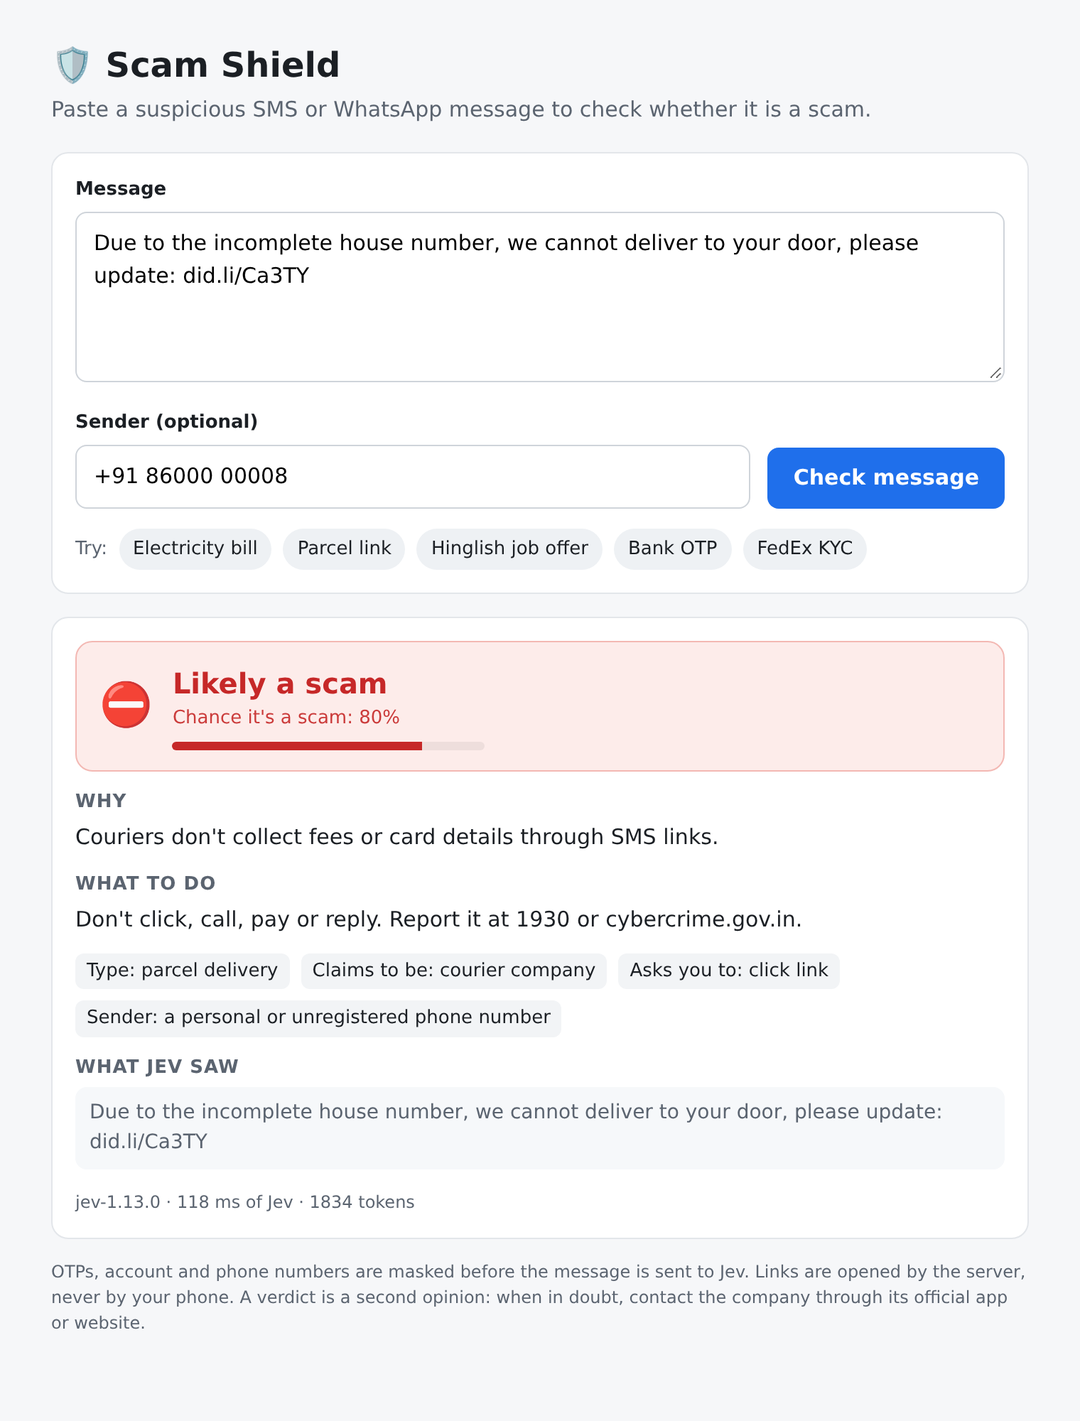
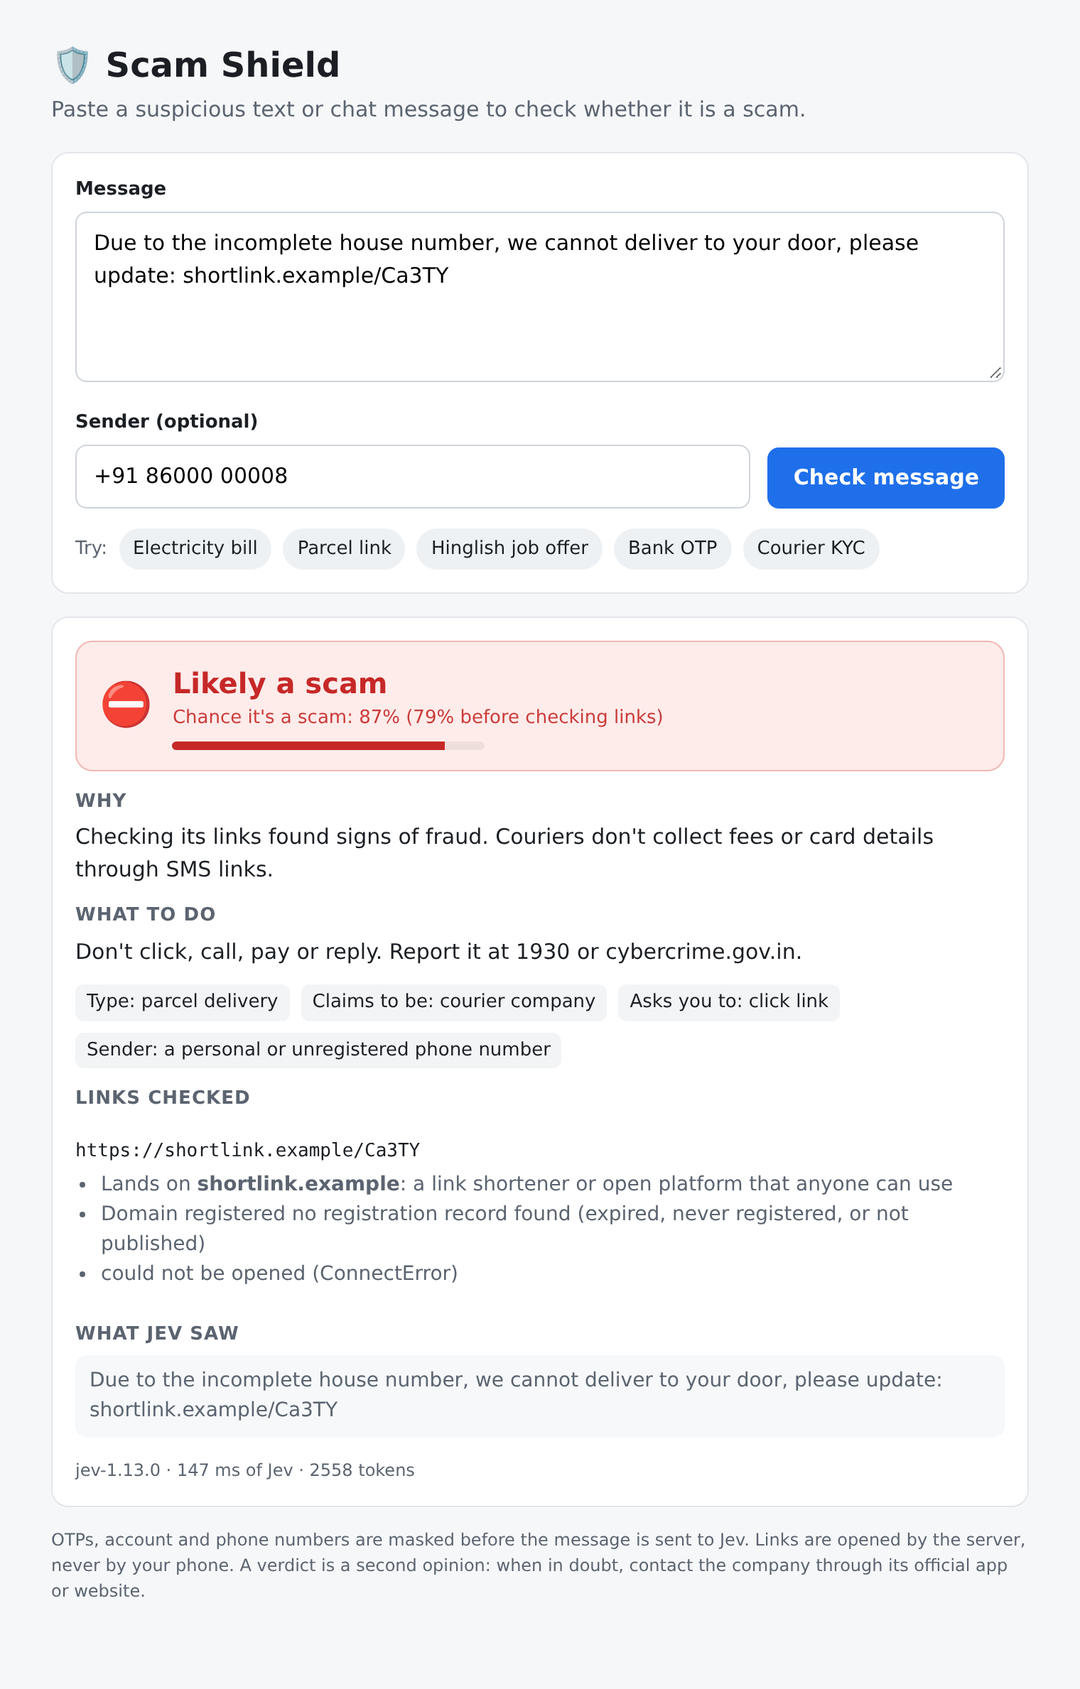
Remove brand names from the Scam Shield blog post
The post now uses generic terms (chat app, online forums, fact-check units,
a famous businessman, a phone company). The two demo screenshots are
re-captured from real checks with company names and domains replaced by
generic labels (Courier A, couriera.example, shortlink.example), which the
caption says; the courier screenshot is renamed accordingly. The diagrams
drop the remaining product and site names.

Amp-Thread-ID: https://ampcode.com/threads/T-01a15250-cad7-7610-b472-882ea9a89c76

diff --git a/blog/scam-shield.html b/blog/scam-shield.html
@@ -784,7 +784,7 @@ blockquote p{margin:0}
 <header id="top"><h1>A second opinion on scam texts in under a second: Scam Shield, built with Jev</h1>
 <p class="meta">Blog · Security · Scams · Jev · October 20, 2026 · 9 min read · <a href="https://github.com/mani-bellan/jev-apps/tree/main/scam-shield">Source code on GitHub</a></p>
 <p><em>"Dear Customer, your electricity connection will be disconnected tonight at 9:30 PM because your previous month bill was not updated. Please contact our electricity officer 98XXXXXX10 immediately."</em></p>
-<p>If you live in India, you have seen a message like this. Maybe your parents have too, and maybe they called the number. Fake traffic e-challans, parcels "held at the warehouse", KYC updates "or your account will be blocked", part-time jobs that pay you to like YouTube videos. The scripts change every few months. The shape doesn't.</p>
+<p>If you live in India, you have seen a message like this. Maybe your parents have too, and maybe they called the number. Fake traffic e-challans, parcels "held at the warehouse", KYC updates "or your account will be blocked", part-time jobs that pay you to like videos. The scripts change every few months. The shape doesn't.</p>
 <p>I wanted something simple: paste a suspicious message and get a second opinion in under a second. A verdict, the kind of scam, one line on why, and what to do next.</p>
 </header>
 <section id="tl-dr" data-toc="TL;DR">
@@ -799,7 +799,7 @@ blockquote p{margin:0}
 <tbody>
 <tr>
 <td><strong>What I built</strong></td>
-<td>Scam Shield: paste an SMS or WhatsApp message and get <em>likely a scam</em>, <em>be careful</em> or <em>looks genuine</em>, with the kind of scam, the reason and what to do. A command-line tool and a one-page web demo.</td>
+<td>Scam Shield: paste a text or chat message and get <em>likely a scam</em>, <em>be careful</em> or <em>looks genuine</em>, with the kind of scam, the reason and what to do. A command-line tool and a one-page web demo.</td>
 </tr>
 <tr>
 <td><strong>How</strong></td>
@@ -807,7 +807,7 @@ blockquote p{margin:0}
 </tr>
 <tr>
 <td><strong>The data</strong></td>
-<td>89 real messages received in India, collected from public fact-checks, police advisories, news reports and Reddit, including genuine messages that people mistook for scams. Split into a tuning set and a held-out set before any tuning.</td>
+<td>89 real messages received in India, collected from public fact-checks, police advisories, news reports and online forums, including genuine messages that people mistook for scams. Split into a tuning set and a held-out set before any tuning.</td>
 </tr>
 <tr>
 <td><strong>Results</strong></td>
@@ -834,7 +834,7 @@ blockquote p{margin:0}
 <li><strong>Which organisation does it claim to be from?</strong></li>
 </ul>
 <p>A few lines of ordinary code turn those answers into a verdict. At 80% or more it is a scam; at 20% or less it is safe; in between it says "be careful". Those thresholds are a product decision, not a model setting, and keeping them in plain code makes that visible.</p>
-<p>Privacy comes first in the pipeline. Before anything leaves the machine, OTPs, account numbers, card and Aadhaar numbers, and phone numbers are masked. Phone numbers keep their shape (98XXXXXX10), because "asks you to call a personal mobile number" is itself a clue.</p>
+<p>Privacy comes first in the pipeline. Before anything leaves the machine, OTPs, account numbers, card and national ID numbers, and phone numbers are masked. Phone numbers keep their shape (98XXXXXX10), because "asks you to call a personal mobile number" is itself a clue.</p>
 <figure><img alt="How Scam Shield checks a message: mask, Jev quick check, policy, and for unsure messages with links an investigator and a second Jev check" src="images/scam-shield-architecture.png" loading="lazy" /><figcaption>How a message flows through Scam Shield. Grey boxes are plain code, blue boxes are calls to Jev, and the orange box makes network checks. A confident message takes one Jev call; an unsure message with links takes two, plus the link checks.</figcaption></figure>
 </section>
 <section id="the-hard-part-was-data" data-toc="The data">
@@ -842,13 +842,13 @@ blockquote p{margin:0}
 <p>The public "smishing" datasets I found were mostly old UK premium-rate texts ("You have won £1,000, txt CLAIM to 80082"). Useful as a sanity check; nearly useless for today's Indian scams.</p>
 <p>The obvious fix was to export real inboxes. I decided against it: I wasn't willing to risk anyone's personal messages. Instead I collected messages that were already public:</p>
 <ul>
-<li><strong>Fact-checks</strong> that debunk viral messages, such as PIB Fact Check and Vishvas News.</li>
+<li><strong>Fact-checks</strong> that debunk viral messages, run by government agencies and newspapers.</li>
 <li><strong>Police and cybercrime advisories</strong>, which quote the texts going around.</li>
 <li><strong>News reports</strong> quoting messages people received.</li>
-<li><strong>Reddit threads</strong> where someone pastes a message and asks "is this real?"</li>
+<li><strong>Online forum threads</strong> where someone pastes a message and asks "is this real?"</li>
 </ul>
 <p>That last source gave me something I hadn't expected: <strong>genuine messages that looked like scams.</strong> A courier's customs KYC request. A security alert with a short link. An income tax refund notice. A credit card agent asking you to share a reference number. These are exactly the messages a scam checker must not flag, and they are the hardest to find.</p>
-<p>I kept only messages whose full text was printed or shown in a screenshot; anything paraphrased or partial was dropped. That left <strong>89 real received messages</strong>: 68 scams, 19 genuine messages and 2 promotions, each with its source link and date. Bank-written examples, Facebook posts and translations went into a separate, secondary set.</p>
+<p>I kept only messages whose full text was printed or shown in a screenshot; anything paraphrased or partial was dropped. That left <strong>89 real received messages</strong>: 68 scams, 19 genuine messages and 2 promotions, each with its source link and date. Bank-written examples, social media posts and translations went into a separate, secondary set.</p>
 <p>Then, before changing anything, I split the 89 into a <strong>tuning set (53)</strong> and a <strong>held-out set (36)</strong>. Every change was made by looking at the tuning set only. The held-out set was run, never studied.</p>
 <figure><img alt="How accuracy is measured: public sources, labeled sets split into tune and held-out, shield eval with baselines, and an HTML report" src="images/scam-shield-eval.png" loading="lazy" /><figcaption>How the numbers are produced. Every labeled message runs through the full pipeline and two simple baselines, and the report lists every miss and false alarm next to the evidence.</figcaption></figure>
 </section>
@@ -886,7 +886,7 @@ blockquote p{margin:0}
 </tbody>
 </table>
 <p>The middle row is the lesson. A classic text classifier trained on this little data catches every scam because it flags everything that looks like an alert, genuine bank messages included. A scam shield that flags your bank's OTP gets uninstalled in a day. <strong>False alarms are the number that matters</strong>, and Scam Shield had none on the held-out set, or on the tuning set.</p>
-<p>Across all 89 messages, it called only two scams safe, and both are fair misses for a tool that only reads text. One, in the held-out set, was a Hindi WhatsApp message whose real danger was an APK file sent with it; the words alone were harmless. The other was a single line from a task-scam chat ("open Google Maps and search for this hotel") that only looks suspicious once you have read the rest of the conversation.</p>
+<p>Across all 89 messages, it called only two scams safe, and both are fair misses for a tool that only reads text. One, in the held-out set, was a Hindi chat message whose real danger was an APK file sent with it; the words alone were harmless. The other was a single line from a task-scam chat ("open your maps app and search for this hotel") that only looks suspicious once you have read the rest of the conversation.</p>
 </section>
 <section id="following-the-links" data-toc="Following the links">
 <h2>Following the links</h2>
@@ -898,8 +898,8 @@ blockquote p{margin:0}
 <li>reads the landing page for card, OTP or password fields, and notes app (APK) downloads without downloading them.</li>
 </ul>
 <p>Jev then answers "is this a scam?" again, with that evidence in front of it.</p>
-<figure><img alt="The Scam Shield demo checking a courier KYC message: the link lands on the courier's official domain, registered in 1991, and the verdict moves to looks genuine" src="images/scam-shield-demo-fedex.png" loading="lazy" /><figcaption>A genuine courier KYC request. The quick check was unsure (49%); after the investigator confirmed the link lands on the courier's own 35-year-old domain, the chance of a scam dropped to 18%.</figcaption></figure>
-<figure><img alt="The Scam Shield demo checking a parcel message with a shortened link: likely a scam" src="images/scam-shield-demo-parcel.png" loading="lazy" /><figcaption>A real parcel scam. The link is a shortener that no longer resolves, and the message claims to be a courier: likely a scam.</figcaption></figure>
+<figure><img alt="The Scam Shield demo checking a courier KYC message: the link lands on the courier's official domain, registered in 1991, and the verdict moves to looks genuine" src="images/scam-shield-demo-courier.png" loading="lazy" /><figcaption>A genuine courier KYC request. The quick check was unsure (48%); after the investigator confirmed the link lands on the courier's own 35-year-old domain, the chance of a scam dropped to 17%. (Company names and domains in both demo screenshots are replaced with generic labels.)</figcaption></figure>
+<figure><img alt="The Scam Shield demo checking a parcel message with a shortened link: likely a scam" src="images/scam-shield-demo-parcel.png" loading="lazy" /><figcaption>A real parcel scam. The link is a shortener that no longer resolves, and the message claims to be from a courier: likely a scam.</figcaption></figure>
 <p>To be honest about it: on the held-out set, the investigator moved the right numbers in the right direction but didn't change a single verdict. A genuine courier message went from 55% to 23%, just above the "safe" line. Old scam links are mostly dead by the time anyone collects them, so a live deployment would see far more evidence than this evaluation did. On the tuning set it did flip three messages, all correctly: two parcel scams to "scam" and one genuine security alert to "safe".</p>
 </section>
 <section id="what-i-learned" data-toc="What I learned">
@@ -909,7 +909,7 @@ blockquote p{margin:0}
 <li><strong>"Be careful" is a feature.</strong> A tool that says "check this in the official app" is more useful than one that guesses confidently.</li>
 <li><strong>Your own test messages flatter you.</strong> The 47 messages I wrote myself scored 100%. Real ones didn't.</li>
 <li><strong>Public data has a bias.</strong> The scams that make the news are cleaner and more typical than what lands in a real inbox.</li>
-<li><strong>A better list of categories beat clever wording.</strong> Free-recharge forwards ("Ambani is giving every Jio user ₹719 of free recharge") kept getting lumped in with lotteries. Giving them their own category raised scam-type accuracy on the held-out set from 81% to 93%.</li>
+<li><strong>A better list of categories beat clever wording.</strong> Free-recharge forwards ("a famous businessman is giving every phone user ₹719 of free recharge") kept getting lumped in with lotteries. Giving them their own category raised scam-type accuracy on the held-out set from 81% to 93%.</li>
 <li><strong>The next step was blocked by search, not by AI.</strong> I wanted an agent that could look up whether a message's wording is a known scam, or what a company's real helpline is. No free web search works from a server without an API key, so that part waits.</li>
 </ol>
 </section>

diff --git a/blog/scam-shield.md b/blog/scam-shield.md
@@ -4,7 +4,7 @@
 
 *"Dear Customer, your electricity connection will be disconnected tonight at 9:30 PM because your previous month bill was not updated. Please contact our electricity officer 98XXXXXX10 immediately."*
 
-If you live in India, you have seen a message like this. Maybe your parents have too, and maybe they called the number. Fake traffic e-challans, parcels "held at the warehouse", KYC updates "or your account will be blocked", part-time jobs that pay you to like YouTube videos. The scripts change every few months. The shape doesn't.
+If you live in India, you have seen a message like this. Maybe your parents have too, and maybe they called the number. Fake traffic e-challans, parcels "held at the warehouse", KYC updates "or your account will be blocked", part-time jobs that pay you to like videos. The scripts change every few months. The shape doesn't.
 
 I wanted something simple: paste a suspicious message and get a second opinion in under a second. A verdict, the kind of scam, one line on why, and what to do next.
 
@@ -12,9 +12,9 @@ I wanted something simple: paste a suspicious message and get a second opinion i
 
 | | |
 |---|---|
-| **What I built** | Scam Shield: paste an SMS or WhatsApp message and get *likely a scam*, *be careful* or *looks genuine*, with the kind of scam, the reason and what to do. A command-line tool and a one-page web demo. |
+| **What I built** | Scam Shield: paste a text or chat message and get *likely a scam*, *be careful* or *looks genuine*, with the kind of scam, the reason and what to do. A command-line tool and a one-page web demo. |
 | **How** | One call to Jev, TypeSafe's judgment model, answers five questions about the message. Plain code turns the answers into a verdict. When it is unsure and the message has links, an investigator checks where the links really go, and Jev looks again with that evidence. |
-| **The data** | 89 real messages received in India, collected from public fact-checks, police advisories, news reports and Reddit, including genuine messages that people mistook for scams. Split into a tuning set and a held-out set before any tuning. |
+| **The data** | 89 real messages received in India, collected from public fact-checks, police advisories, news reports and online forums, including genuine messages that people mistook for scams. Split into a tuning set and a held-out set before any tuning. |
 | **Results** | On the 36 held-out messages: **93% of scams caught, no genuine message called a scam**, 11% left as "be careful". A classic text classifier caught every scam but also flagged every genuine message. |
 | **Cost** | About 70 ms and roughly $7.50 per 100,000 messages for the quick check. |
 
@@ -36,7 +36,7 @@ Every message gets one Jev call with five questions:
 
 A few lines of ordinary code turn those answers into a verdict. At 80% or more it is a scam; at 20% or less it is safe; in between it says "be careful". Those thresholds are a product decision, not a model setting, and keeping them in plain code makes that visible.
 
-Privacy comes first in the pipeline. Before anything leaves the machine, OTPs, account numbers, card and Aadhaar numbers, and phone numbers are masked. Phone numbers keep their shape (98XXXXXX10), because "asks you to call a personal mobile number" is itself a clue.
+Privacy comes first in the pipeline. Before anything leaves the machine, OTPs, account numbers, card and national ID numbers, and phone numbers are masked. Phone numbers keep their shape (98XXXXXX10), because "asks you to call a personal mobile number" is itself a clue.
 
 ![How Scam Shield checks a message: mask, Jev quick check, policy, and for unsure messages with links an investigator and a second Jev check](https://raw.githubusercontent.com/mani-bellan/jev-apps/main/blog/images/scam-shield-architecture.png)
 
@@ -48,14 +48,14 @@ The public "smishing" datasets I found were mostly old UK premium-rate texts ("Y
 
 The obvious fix was to export real inboxes. I decided against it: I wasn't willing to risk anyone's personal messages. Instead I collected messages that were already public:
 
-- **Fact-checks** that debunk viral messages, such as PIB Fact Check and Vishvas News.
+- **Fact-checks** that debunk viral messages, run by government agencies and newspapers.
 - **Police and cybercrime advisories**, which quote the texts going around.
 - **News reports** quoting messages people received.
-- **Reddit threads** where someone pastes a message and asks "is this real?"
+- **Online forum threads** where someone pastes a message and asks "is this real?"
 
 That last source gave me something I hadn't expected: **genuine messages that looked like scams.** A courier's customs KYC request. A security alert with a short link. An income tax refund notice. A credit card agent asking you to share a reference number. These are exactly the messages a scam checker must not flag, and they are the hardest to find.
 
-I kept only messages whose full text was printed or shown in a screenshot; anything paraphrased or partial was dropped. That left **89 real received messages**: 68 scams, 19 genuine messages and 2 promotions, each with its source link and date. Bank-written examples, Facebook posts and translations went into a separate, secondary set.
+I kept only messages whose full text was printed or shown in a screenshot; anything paraphrased or partial was dropped. That left **89 real received messages**: 68 scams, 19 genuine messages and 2 promotions, each with its source link and date. Bank-written examples, social media posts and translations went into a separate, secondary set.
 
 Then, before changing anything, I split the 89 into a **tuning set (53)** and a **held-out set (36)**. Every change was made by looking at the tuning set only. The held-out set was run, never studied.
 
@@ -75,7 +75,7 @@ On the 36 held-out messages:
 
 The middle row is the lesson. A classic text classifier trained on this little data catches every scam because it flags everything that looks like an alert, genuine bank messages included. A scam shield that flags your bank's OTP gets uninstalled in a day. **False alarms are the number that matters**, and Scam Shield had none on the held-out set, or on the tuning set.
 
-Across all 89 messages, it called only two scams safe, and both are fair misses for a tool that only reads text. One, in the held-out set, was a Hindi WhatsApp message whose real danger was an APK file sent with it; the words alone were harmless. The other was a single line from a task-scam chat ("open Google Maps and search for this hotel") that only looks suspicious once you have read the rest of the conversation.
+Across all 89 messages, it called only two scams safe, and both are fair misses for a tool that only reads text. One, in the held-out set, was a Hindi chat message whose real danger was an APK file sent with it; the words alone were harmless. The other was a single line from a task-scam chat ("open your maps app and search for this hotel") that only looks suspicious once you have read the rest of the conversation.
 
 ## Following the links
 
@@ -88,13 +88,13 @@ Most "be careful" messages contain a link, and a link can be checked. So I added
 
 Jev then answers "is this a scam?" again, with that evidence in front of it.
 
-![The Scam Shield demo checking a courier KYC message: the link lands on the courier's official domain, registered in 1991, and the verdict moves to looks genuine](https://raw.githubusercontent.com/mani-bellan/jev-apps/main/blog/images/scam-shield-demo-fedex.png)
+![The Scam Shield demo checking a courier KYC message: the link lands on the courier's official domain, registered in 1991, and the verdict moves to looks genuine](https://raw.githubusercontent.com/mani-bellan/jev-apps/main/blog/images/scam-shield-demo-courier.png)
 
-*A genuine courier KYC request. The quick check was unsure (49%); after the investigator confirmed the link lands on the courier's own 35-year-old domain, the chance of a scam dropped to 18%.*
+*A genuine courier KYC request. The quick check was unsure (48%); after the investigator confirmed the link lands on the courier's own 35-year-old domain, the chance of a scam dropped to 17%. (Company names and domains in both demo screenshots are replaced with generic labels.)*
 
 ![The Scam Shield demo checking a parcel message with a shortened link: likely a scam](https://raw.githubusercontent.com/mani-bellan/jev-apps/main/blog/images/scam-shield-demo-parcel.png)
 
-*A real parcel scam. The link is a shortener that no longer resolves, and the message claims to be a courier: likely a scam.*
+*A real parcel scam. The link is a shortener that no longer resolves, and the message claims to be from a courier: likely a scam.*
 
 To be honest about it: on the held-out set, the investigator moved the right numbers in the right direction but didn't change a single verdict. A genuine courier message went from 55% to 23%, just above the "safe" line. Old scam links are mostly dead by the time anyone collects them, so a live deployment would see far more evidence than this evaluation did. On the tuning set it did flip three messages, all correctly: two parcel scams to "scam" and one genuine security alert to "safe".
 
@@ -104,7 +104,7 @@ To be honest about it: on the held-out set, the investigator moved the right num
 2. **"Be careful" is a feature.** A tool that says "check this in the official app" is more useful than one that guesses confidently.
 3. **Your own test messages flatter you.** The 47 messages I wrote myself scored 100%. Real ones didn't.
 4. **Public data has a bias.** The scams that make the news are cleaner and more typical than what lands in a real inbox.
-5. **A better list of categories beat clever wording.** Free-recharge forwards ("Ambani is giving every Jio user ₹719 of free recharge") kept getting lumped in with lotteries. Giving them their own category raised scam-type accuracy on the held-out set from 81% to 93%.
+5. **A better list of categories beat clever wording.** Free-recharge forwards ("a famous businessman is giving every phone user ₹719 of free recharge") kept getting lumped in with lotteries. Giving them their own category raised scam-type accuracy on the held-out set from 81% to 93%.
 6. **The next step was blocked by search, not by AI.** I wanted an agent that could look up whether a message's wording is a known scam, or what a company's real helpline is. No free web search works from a server without an API key, so that part waits.
 
 ## Limits

diff --git a/README.md b/README.md
@@ -7,7 +7,7 @@ decision model.
 - **Customer support router** (`main.py`): routes customer messages to specialist agents.
 - **Agent EKG** ([`agent-eval/`](agent-eval)): an agent evaluation app that scores every step of every
   agent run with Jev, finds where runs derail, and measures how early failing runs can be stopped.
-- **Scam Shield** ([`scam-shield/`](scam-shield)): checks a suspicious SMS or WhatsApp message in under a
+- **Scam Shield** ([`scam-shield/`](scam-shield)): checks a suspicious text or chat message in under a
   second (likely a scam, be careful, or looks genuine) and investigates its links when unsure. Includes 89 real
   messages received in India, collected from public sources, and an evaluation harness.
 
